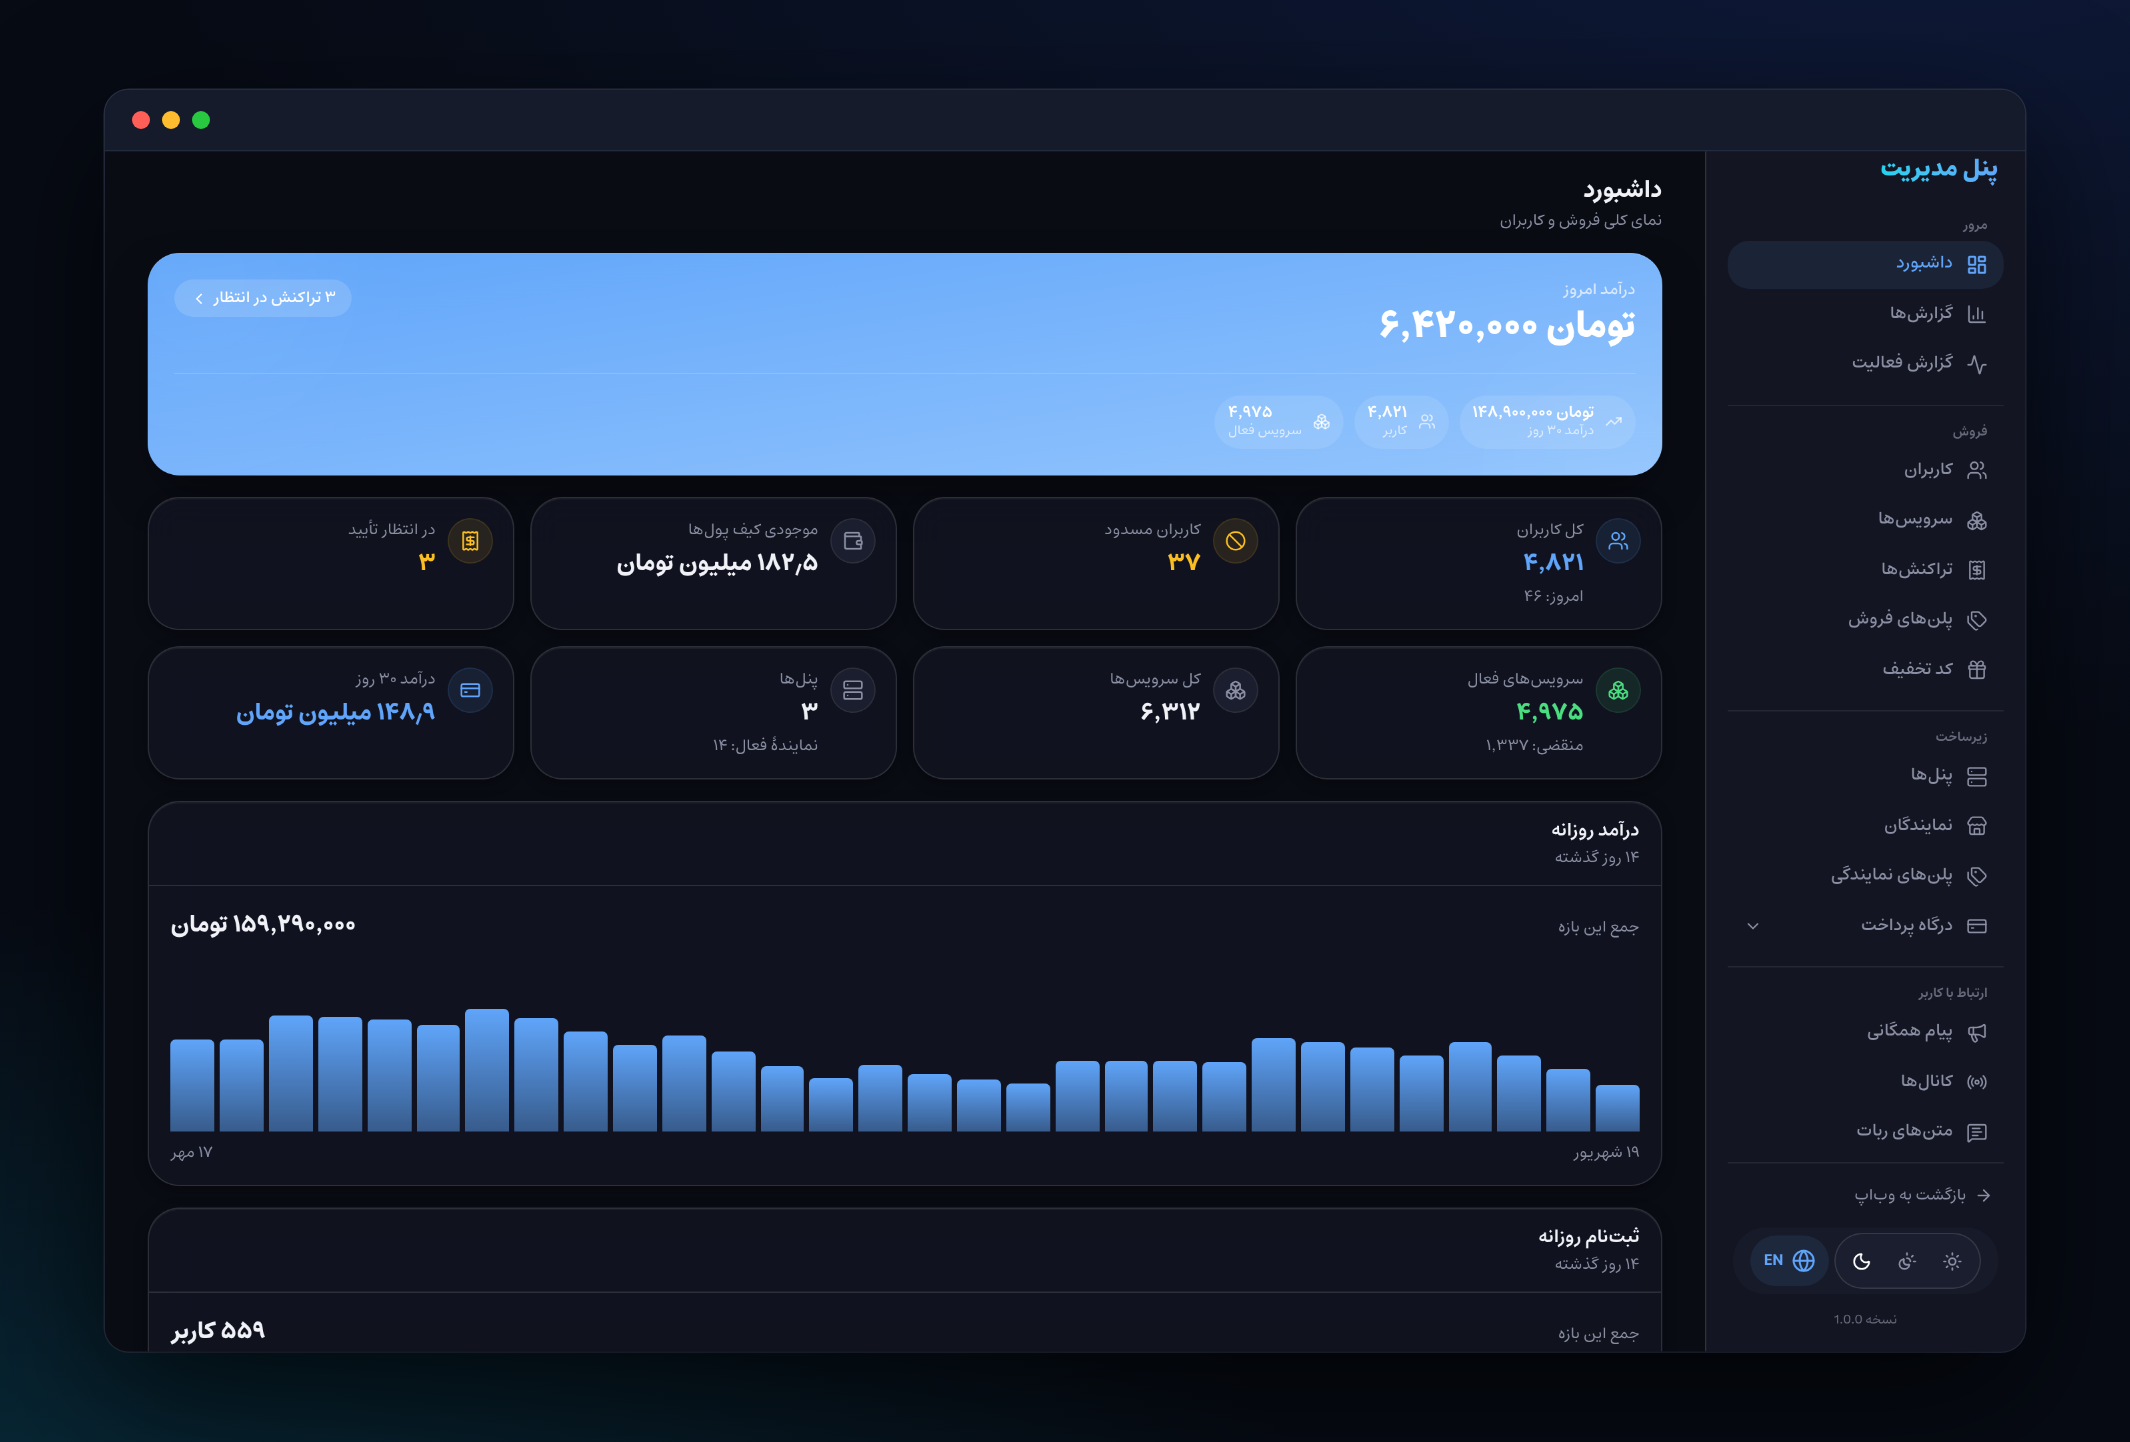
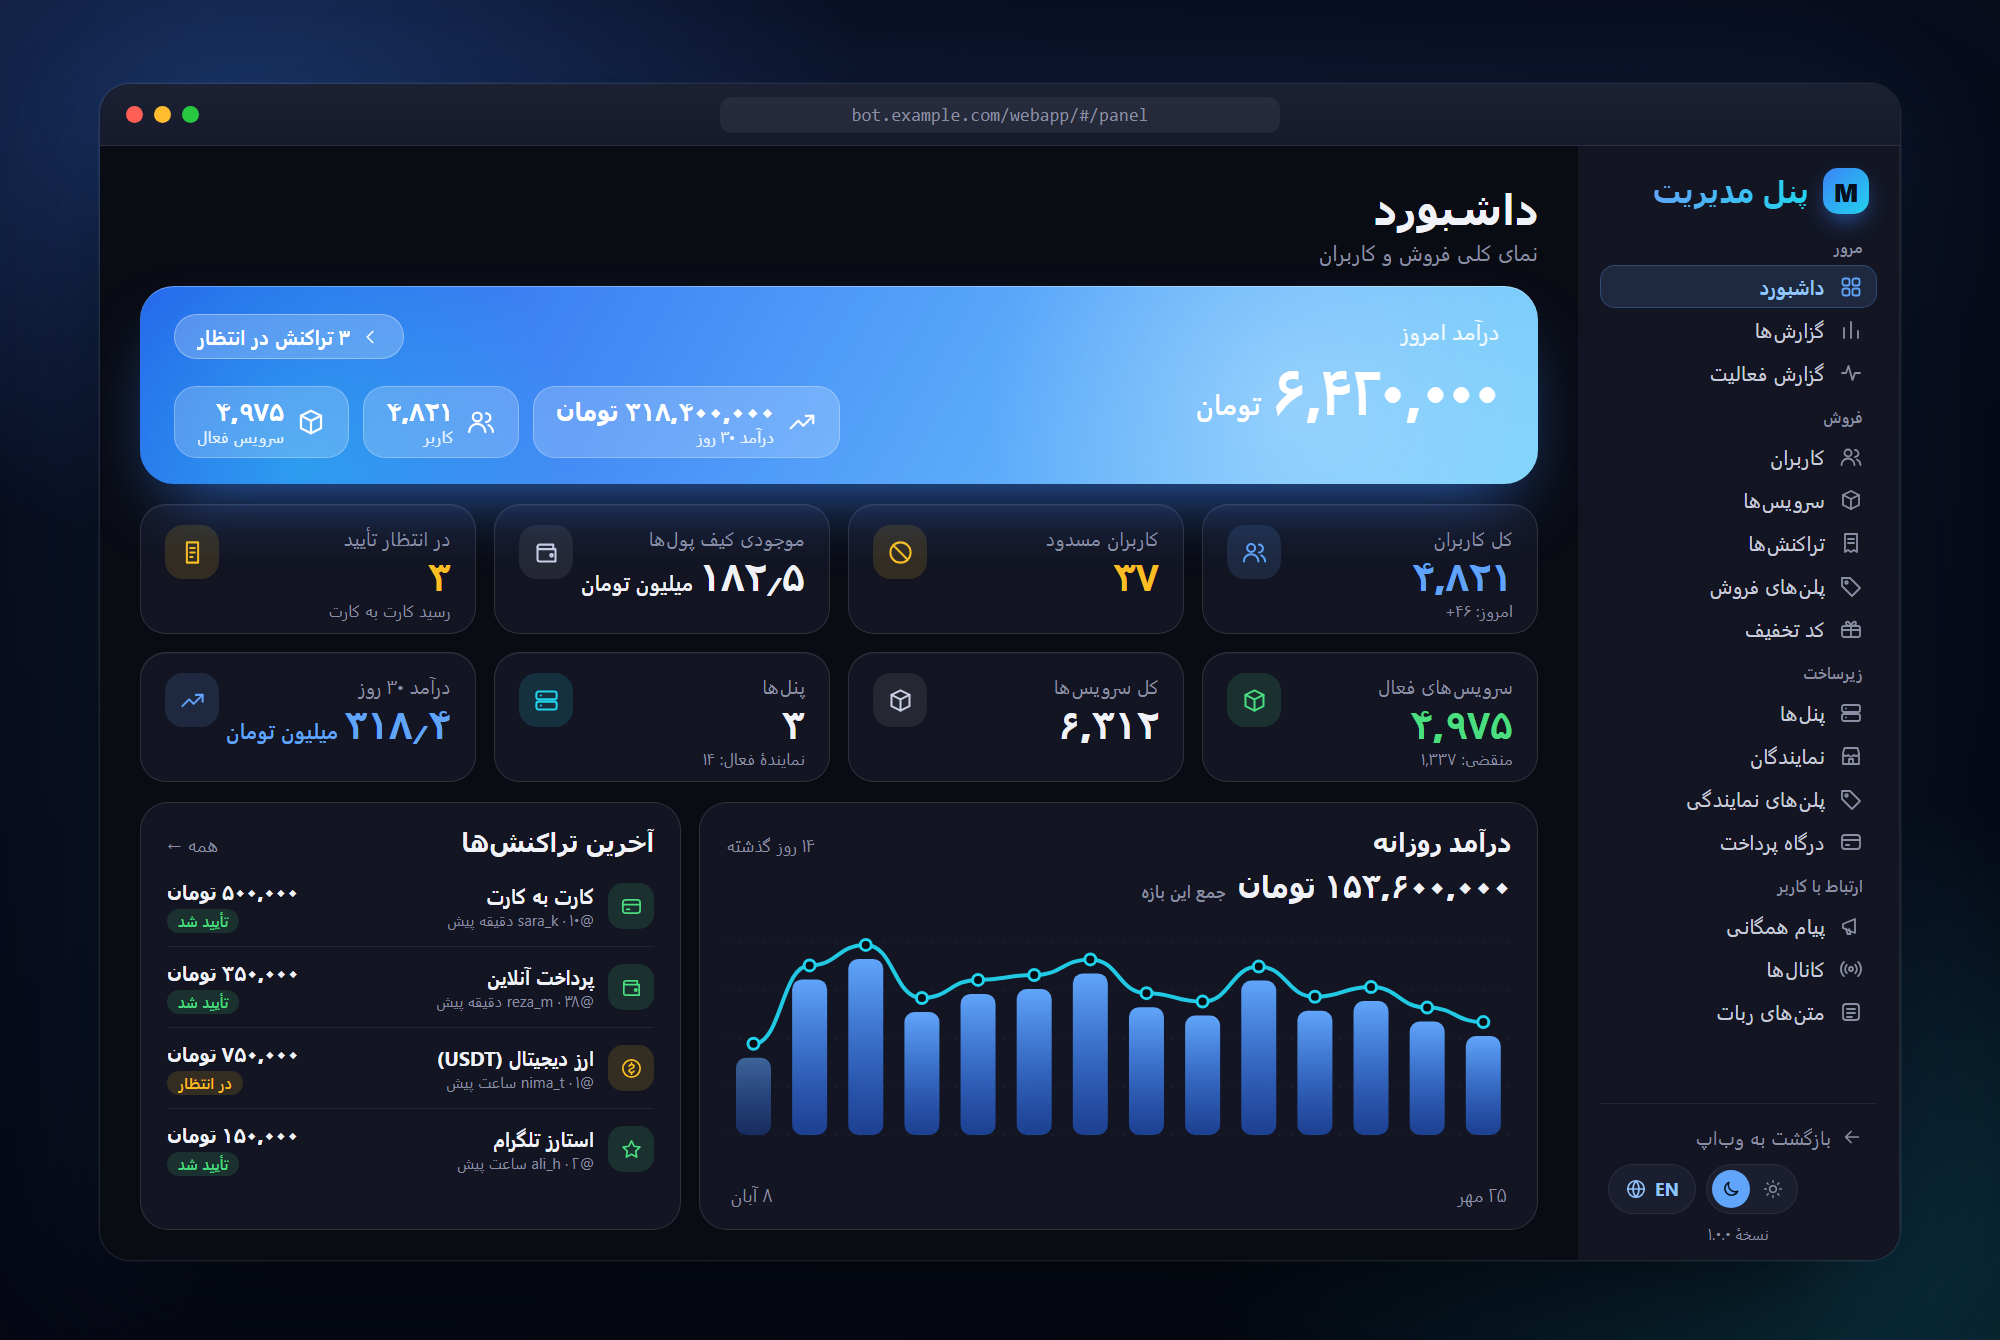
Redraw the web app images and rewrite the README web app section
New Mdje-branded mockups of the user app (services, dashboard, service detail) and the admin
dashboard replace the old screenshots; they use made-up data and are labelled as illustrations.
The section now covers the three ways to open the app, what the user app and the admin panel
contain, appearance, setup requirements and links to the docs.

diff --git a/README.md b/README.md
@@ -50,15 +50,61 @@ bash <(curl -fsSL https://raw.githubusercontent.com/mdjes/MdjeBot/main/scripts/m
 
 ## وباپ (Telegram Mini App)
 
-یک پنل کاربری وب برای مشتریان (مشاهده سرویسها، تمدید، شارژ کیف پول) در مسیر [`frontend/`](frontend/) قرار دارد. برای راهاندازی و بیلد به [`frontend/README.md`](frontend/README.md) مراجعه کنید؛ در بیلد Docker بهصورت خودکار ساخته میشود.
+کنار ربات تلگرام، MdjeBot یک **وباپ** کامل هم دارد: مشتریها سرویسهایشان را میبینند و تمدید میکنند، کیف پول را شارژ میکنند و سرویس میخرند؛ شما هم کل فروشگاه را از یک **پنل مدیریت تحت وب** اداره میکنید. وباپ روی همان وبسرور ربات اجرا میشود و چیز جدایی برای نصب ندارد.
 
 <p align="center">
-  <img src=".github/assets/webapp-user.png" alt="وباپ کاربر" width="100%">
+  <img src=".github/assets/webapp-user.png" alt="اپ کاربر: سرویسها، داشبورد و مدیریت سرویس" width="100%">
 </p>
 
 <p align="center">
-  <img src=".github/assets/webapp-admin.png" alt="پنل مدیریت" width="100%">
+  <img src=".github/assets/webapp-admin.png" alt="پنل مدیریت تحت وب: داشبورد فروش" width="100%">
 </p>
+
+<p align="center"><sub>تصویرها طرحهای نمایشی با دادههای فرضیاند؛ ظاهر واقعی با تم و زبان انتخابی شما کمی فرق میکند.</sub></p>
+
+### یک اپ، سه شکل
+
+| | |
+|---|---|
+| 📲 **داخل تلگرام** | با یک دکمه در ربات (Mini App) باز میشود و کاربر **بدون ورود دستی** وارد حسابش میشود. |
+| 🌐 **در مرورگر** | هر مرورگری؛ ورود با شمارهٔ تلفن (کد از ربات) یا **کلید API** شخصی. |
+| 🏠 **نصب روی گوشی (PWA)** | با «نصب اپ روی صفحه اصلی» مثل یک اپ مستقل باز میشود؛ نام و آیکن اپ را ادمین تغییر میدهد. |
+
+### 👤 اپ کاربر
+
+| بخش | امکانات |
+|------|---------|
+| **خانه** | موجودی کیف پول، دسترسی سریع به سرویسها، خرید و شارژ، و فعالیت اخیر |
+| **سرویسها** | جستجو، وضعیت هر سرویس، حجم و زمان باقیمانده، صفحهبندی |
+| **مدیریت سرویس** | نمودار مصرف، لینک اشتراک و QR، لینکهای دیگر، تمدید، افزایش زمان و حجم |
+| **خرید** | ویزارد چندمرحلهای: پنل ← زمان ← پلن ← نام ← تأیید ← تحویل آنی |
+| **کیف پول** | شارژ با کارتبهکارت، ارز دیجیتال، استارز و TonPays (با نمایش بونوس هر روش)؛ تاریخچهٔ تراکنشها |
+| **نمایندگی و پروفایل** | خرید و مدیریت پنل نمایندگی، کلید API، راهنما و دانلود برنامهها |
+
+### 🛠 پنل مدیریت تحت وب
+
+| بخش | امکانات |
+|------|---------|
+| **داشبورد و گزارش** | درآمد امروز و ۳۰ روز، رسیدهای در انتظار، نمودار درآمد و ثبتنام ۱۴ روز اخیر؛ گزارشها و **گزارش فعالیت** ادمینها |
+| **فروش** | کاربران، سرویسها، تراکنشها، پلنهای فروش و کد تخفیف |
+| **زیرساخت** | پنلهای پاسارگارد، نمایندگیها و پلنهای نمایندگی، درگاههای پرداخت |
+| **ارتباط با کاربر** | پیام همگانی، کانالها، متنهای ربات و سیستم دعوت |
+| **ظاهر ربات** | ویرایش متنها، متن و رنگ و آیکن دکمهها و **چیدمان منوی اصلی با کشیدن و رها کردن** |
+| **تنظیمات و ابزارها** | همهٔ تنظیمات ربات، وضعیت سیستم، بکاپ دیتابیس و افزایش گروهی حجم و زمان |
+
+### ✨ جزئیات
+
+- **فارسی و English** با جهت راستبهچپ کامل؛ تم **روشن، تیره یا خودکار** (هماهنگ با گوشی یا تلگرام).
+- طراحی ریسپانسیو برای موبایل و دسکتاپ.
+- وقتی وباپ از دکمهٔ داخل ربات باز شود، تلگرام اطلاعات امضاشدهٔ کاربر را میدهد و **ورود خودکار** انجام میشود؛ هیچ فرمی پر نمیشود.
+
+### 🚀 راهاندازی
+
+دو چیز لازم است: وبسرور ربات روشن باشد (`FASTAPI_PORT`، پیشفرض `6160`) و `WEBAPP_URL` با **`https://`** و دامنهٔ معتبر تنظیم شود (تلگرام آدرس غیر HTTPS را قبول نمیکند). بعد با دستور `/webapp` (حساب ادمین) تست کنید.
+
+📖 راهنمای کامل: [معرفی و ورود](https://mdjes.github.io/mdjeBot/docs/webapp) · [اپ کاربر](https://mdjes.github.io/mdjeBot/docs/webapp/user-app) · [پنل مدیریت وب](https://mdjes.github.io/mdjeBot/docs/webapp/admin-panel) · [نصب روی گوشی](https://mdjes.github.io/mdjeBot/docs/webapp/pwa)
+
+برای توسعه و بیلد فرانتاند: [`frontend/README.md`](frontend/README.md) (در بیلد Docker بهصورت خودکار ساخته میشود).
 
 ## لایسنس
 
